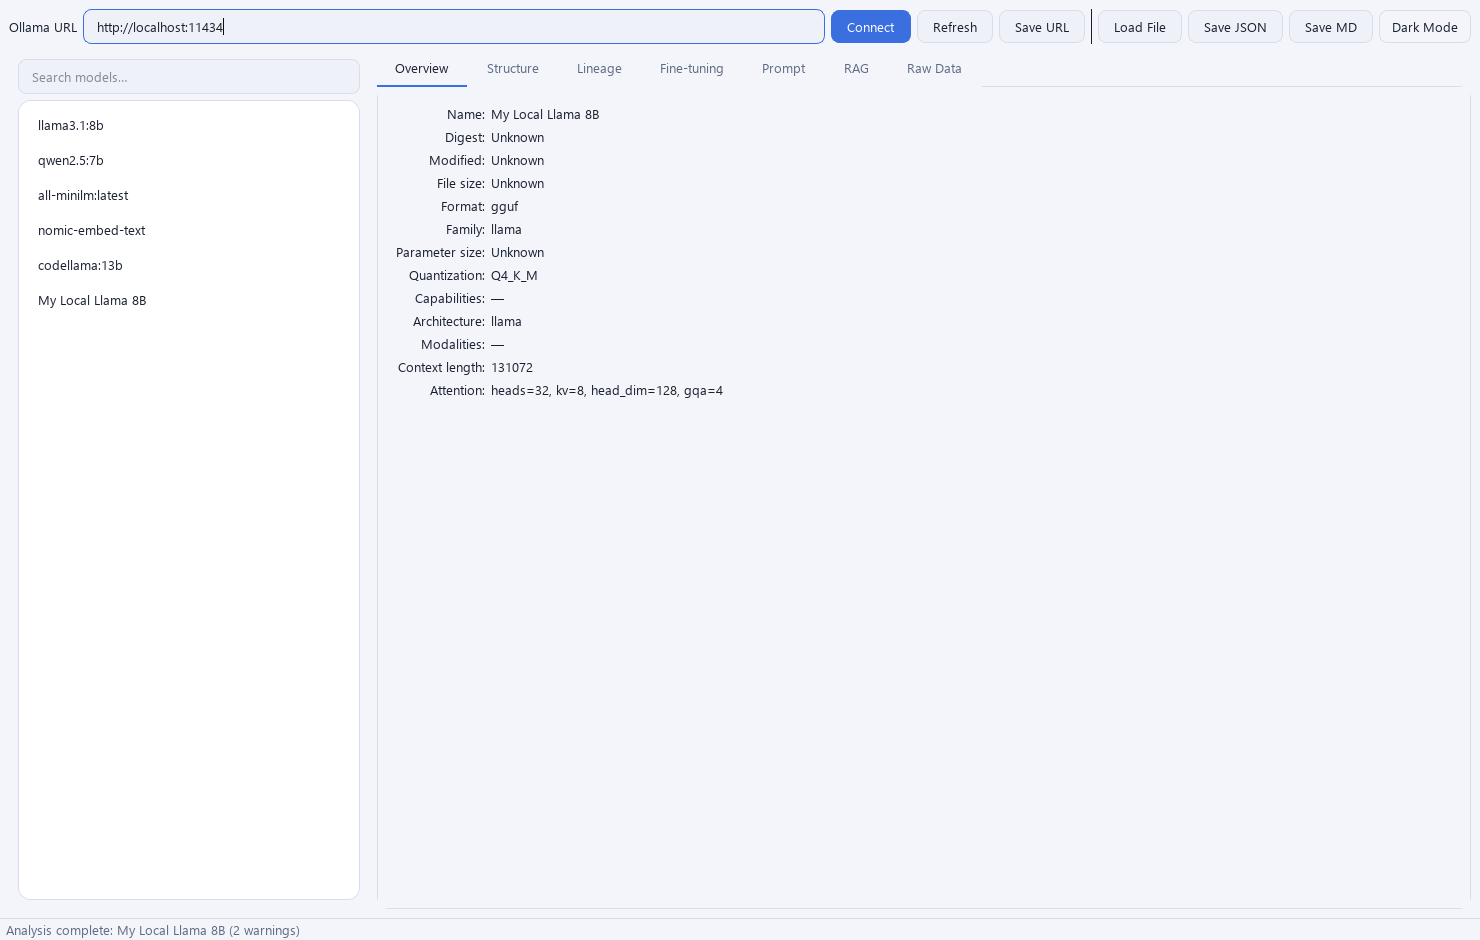
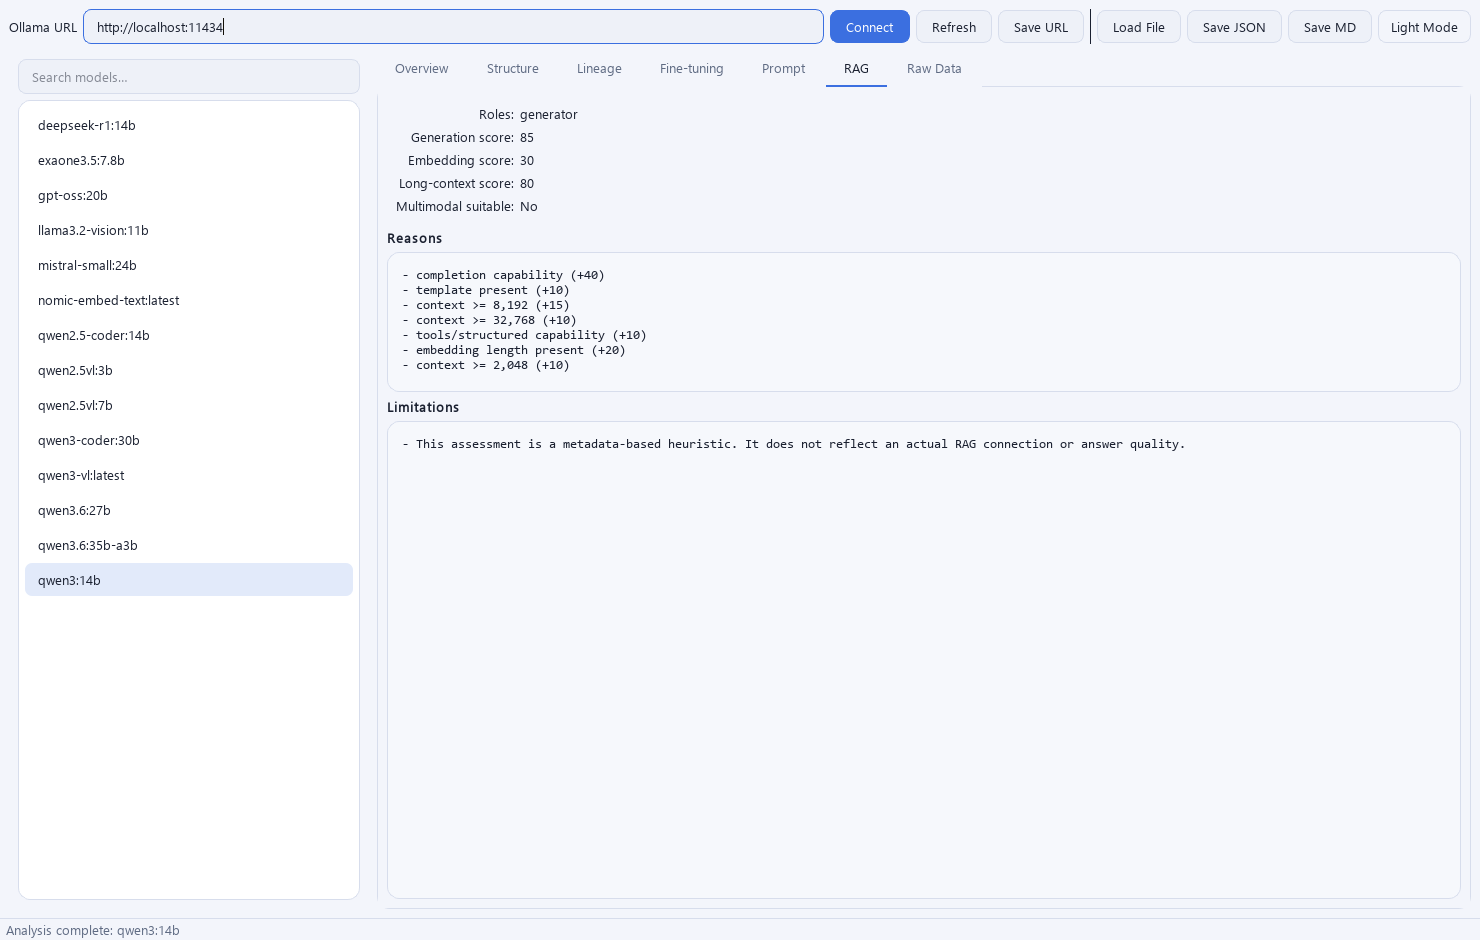
docs: replace screenshots with live Ollama server (Overview + RAG tabs)

diff --git a/README.md b/README.md
@@ -27,12 +27,13 @@ lineage, fine-tuning traces, and RAG role-suitability. Every conclusion is
 
 ## Screenshots
 
-The Overview tab with an external GGUF model loaded — dark and light themes
-(toggle from the top-right button):
+Connected to a live Ollama server (14 models). Left: the **Overview** tab in the
+dark theme (`qwen3:14b` metadata). Right: the **RAG** tab in the light theme
+(role-suitability scores with reasons) — toggle themes from the top-right button.
 
-| Dark theme | Light theme |
+| Overview — dark theme | RAG — light theme |
 |:---:|:---:|
-| ![Dark theme](docs/screenshot-dark.png) | ![Light theme](docs/screenshot-light.png) |
+| ![Overview tab, dark theme](docs/screenshot-dark.png) | ![RAG tab, light theme](docs/screenshot-light.png) |
 
 ## Requirements
 